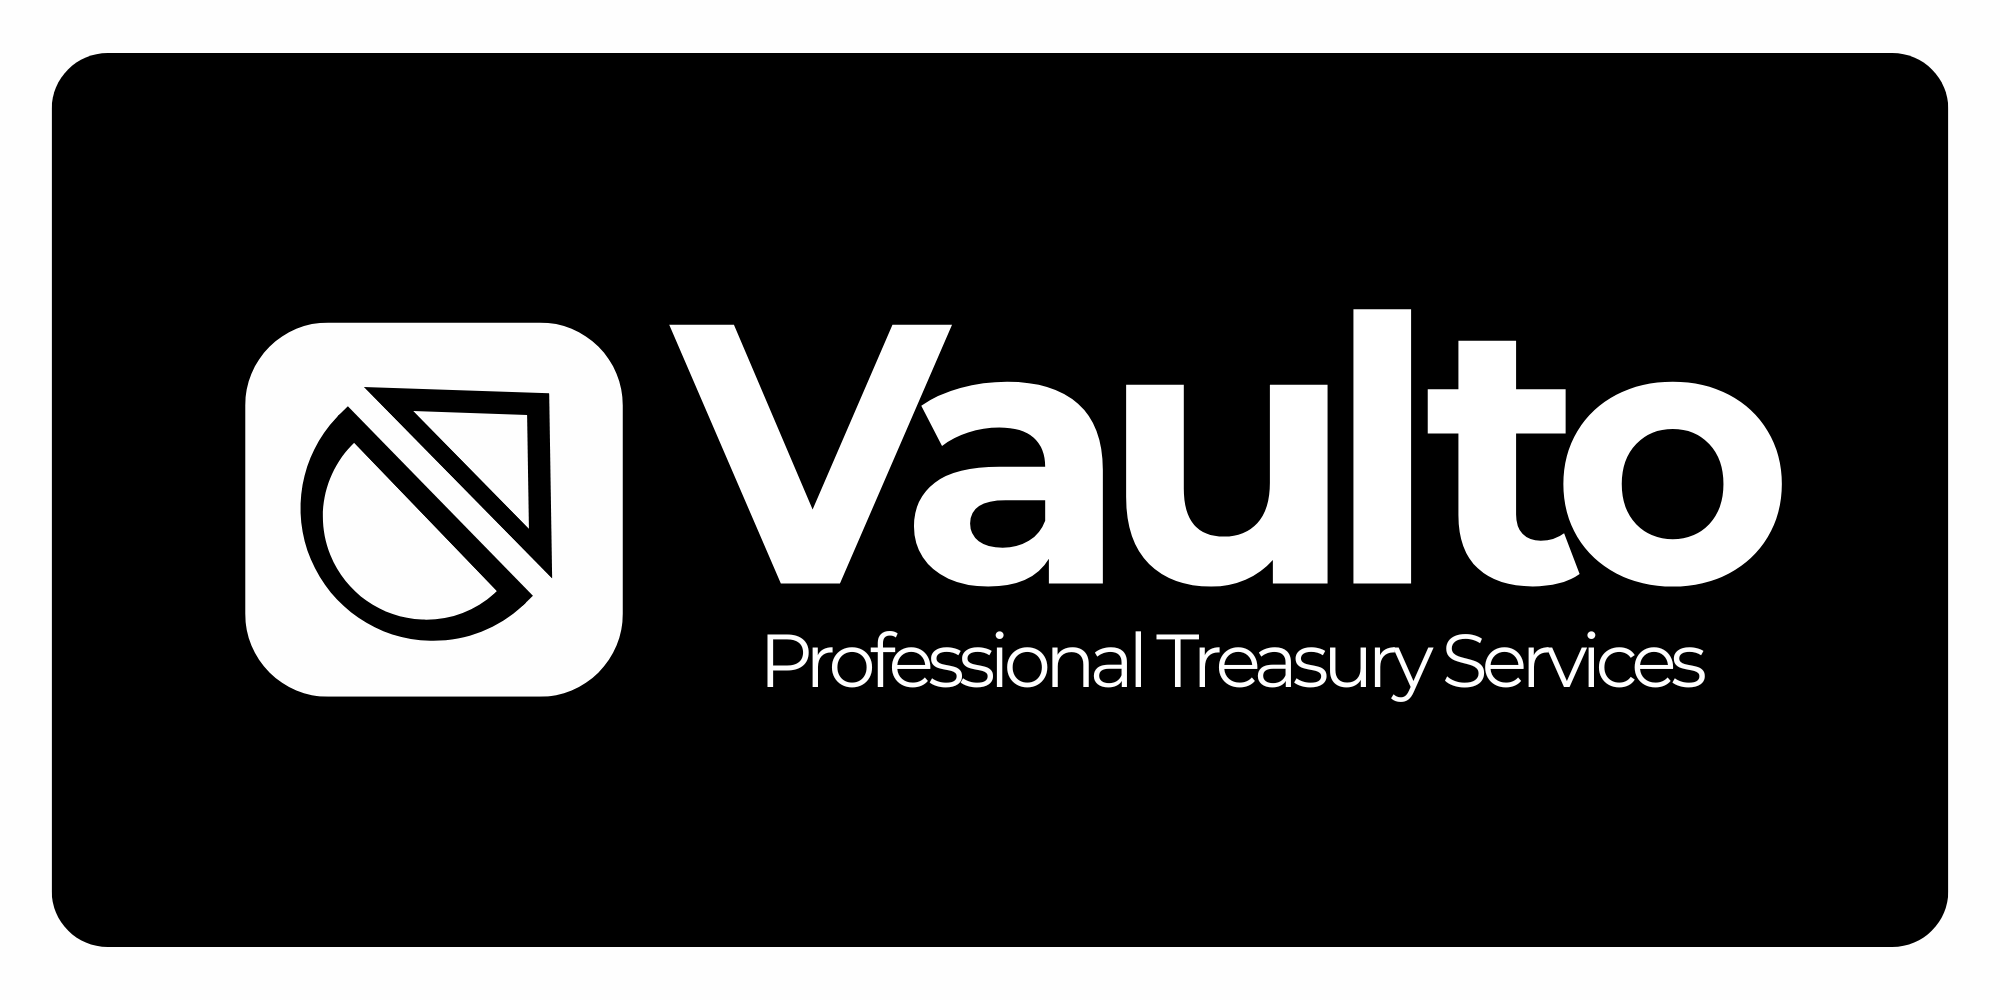
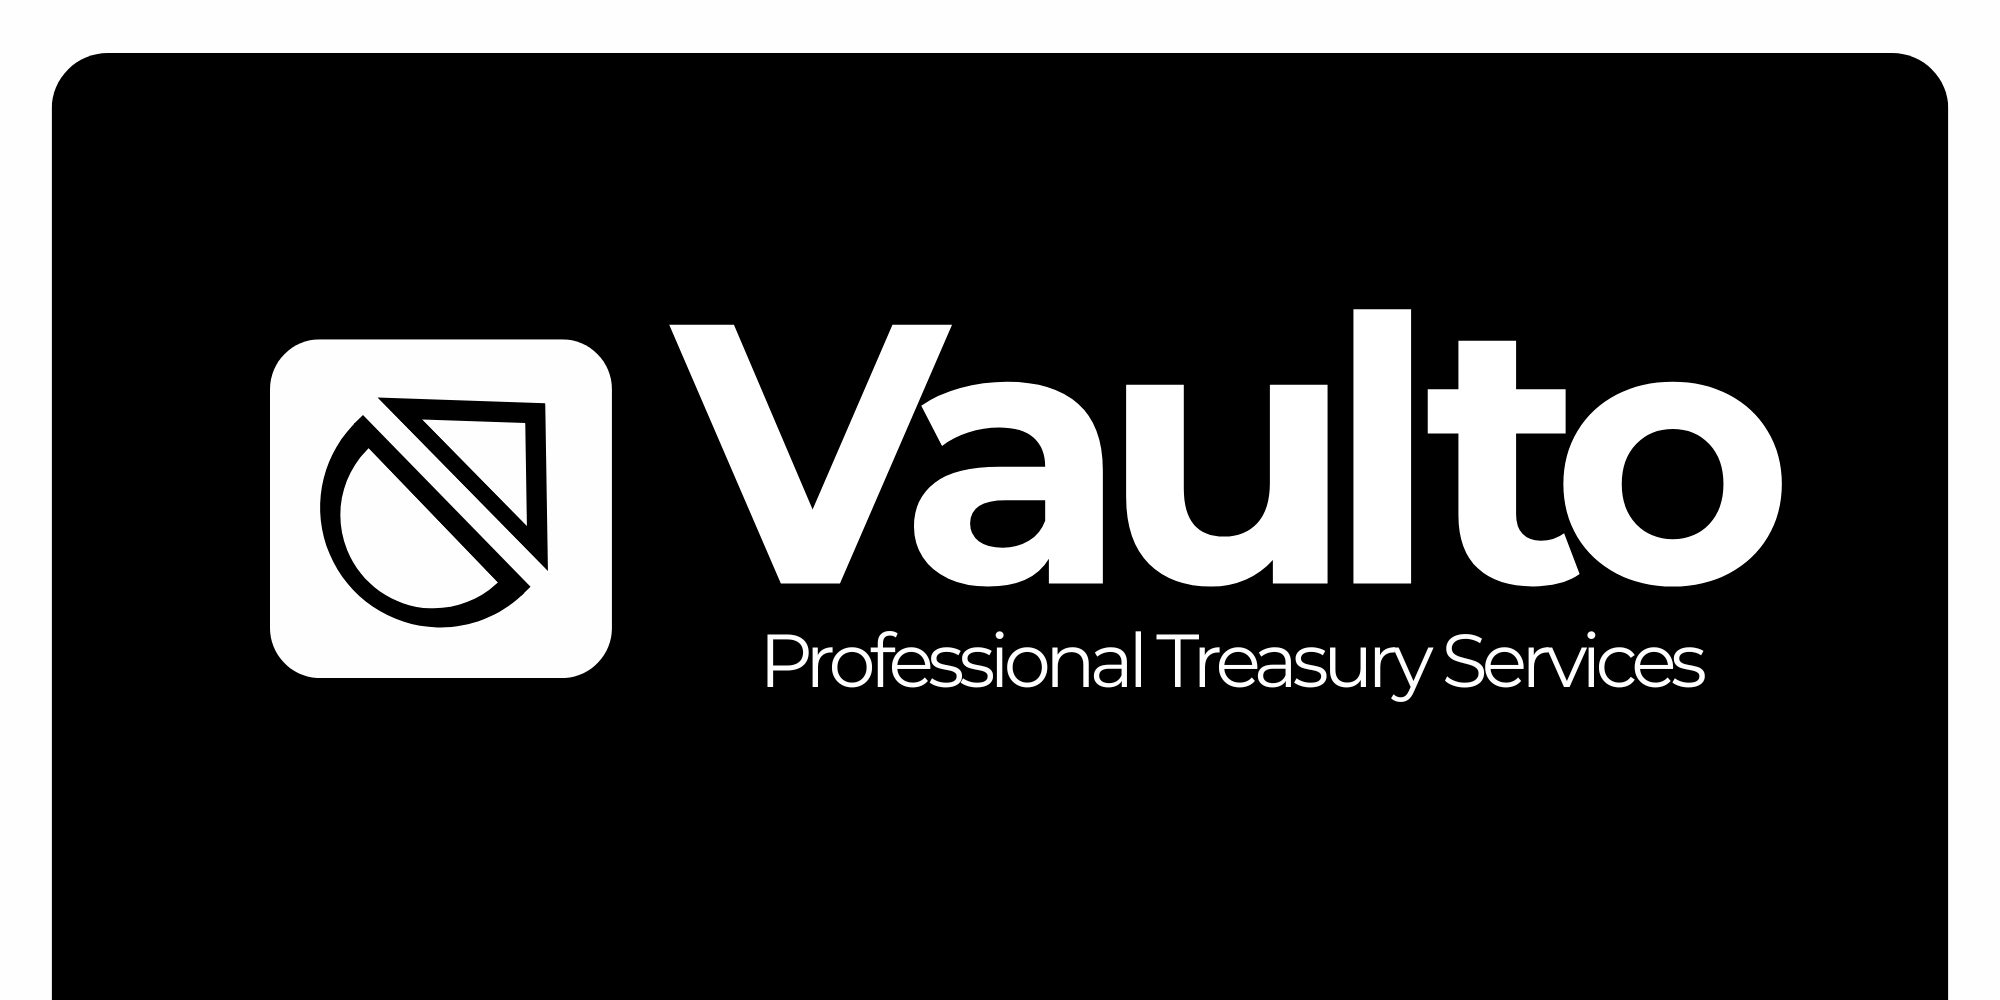
feat: rebrand to Vaulto Treasury and simplify UI
- Update branding from 'Holdings' to 'Treasury' across the application
- Simplify vault and ALP displays by removing logo images
- Replace logo images with clean text labels:
  * 'Hyperliquid Vault' instead of logo + 'Vault'
  * 'Aster Liquidity' instead of logo + 'Liquidity'
- Update page title and header text to reflect Treasury branding
- Optimize image assets (favicon, logo, social banner) for better performance
- Clean up CSS by removing unused logo-related styles and adjusting spacing
- Improve overall visual consistency and reduce visual clutter

Changed region(s): [[0.0, 0.899, 0.992, 1.0], [0.124, 0.31, 0.31, 0.713]]

diff --git a/src/components/ALPDisplay.css b/src/components/ALPDisplay.css
@@ -23,17 +23,12 @@
   align-items: center;
   gap: 0.75rem;
   margin-bottom: 0.5rem;
+  margin-top: 0.3rem;
   justify-content: flex-start;
 }
 
 .alp-header .alp-link {
   display: none;
-}
-
-.alp-logo {
-  width: 40px;
-  height: 40px;
-  object-fit: contain;
 }
 
 .alp-title {
@@ -42,9 +37,6 @@
   font-weight: 500;
   text-transform: uppercase;
   letter-spacing: 1px;
-  display: flex;
-  align-items: center;
-  gap: 0.75rem;
 }
 
 .alp-content {
@@ -52,7 +44,7 @@
   flex-direction: column;
   gap: 0.5rem;
   flex: 1;
-  margin-top: 0.5rem;
+  margin-top: 0.8125rem;
 }
 
 .alp-row {
@@ -157,17 +149,9 @@
     display: flex;
   }
   
-  .alp-logo {
-    width: 40px;
-    height: 40px;
-  }
-  
   .alp-title {
     font-size: 0.8rem;
     white-space: nowrap;
-    display: flex;
-    align-items: center;
-    gap: 0.5rem;
   }
   
   .alp-content {
@@ -241,18 +225,10 @@
   .alp-header .alp-link {
     display: flex;
   }
-
-  .alp-logo {
-    width: 36px;
-    height: 36px;
-  }
   
   .alp-title {
     font-size: 0.7rem;
     white-space: nowrap;
-    display: flex;
-    align-items: center;
-    gap: 0.5rem;
   }
   
   .alp-content {

diff --git a/src/components/Dashboard.css b/src/components/Dashboard.css
@@ -391,21 +391,12 @@
   justify-content: flex-start;
 }
 
-.vault-logo {
-  width: 56px;
-  height: 56px;
-  object-fit: contain;
-}
-
 .vault-label {
   font-size: 1.1rem;
   color: var(--text-secondary);
   font-weight: 500;
   text-transform: uppercase;
   letter-spacing: 1px;
-  display: flex;
-  align-items: center;
-  gap: 0.75rem;
 }
 
 .vault-address {
@@ -457,6 +448,8 @@
 
 .vault-link {
   margin-top: 0.75rem;
+  position: relative;
+  top: 0.625rem;
 }
 
 .vault-header-with-logo .vault-link-button {
@@ -774,17 +767,9 @@
     display: flex;
   }
 
-  .vault-logo {
-    width: 40px;
-    height: 40px;
-  }
-
   .vault-label {
     font-size: 0.8rem;
     text-align: left;
-    display: flex;
-    align-items: center;
-    gap: 0.5rem;
   }
   
   .vault-address {
@@ -982,17 +967,9 @@
     display: flex;
   }
 
-  .vault-logo {
-    width: 36px;
-    height: 36px;
-  }
-
   .vault-label {
     font-size: 0.7rem;
     text-align: left;
-    display: flex;
-    align-items: center;
-    gap: 0.5rem;
   }
   
   .vault-address {

diff --git a/src/components/Dashboard.tsx b/src/components/Dashboard.tsx
@@ -416,8 +416,7 @@ const Dashboard: React.FC = () => {
                 <div className="vault-info">
                   <div className="vault-header-with-logo">
                     <div className="vault-label">
-                      <img src="/hyper.png" alt="Hyperliquid" className="vault-logo" />
-                      Vault
+                      Hyperliquid Vault
                     </div>
                     <a 
                       href="https://app.hyperliquid.xyz/vaults/0xba9e8b2d5941a196288c6e22d1fab9aef6e0497a" 
@@ -560,8 +559,7 @@ const Dashboard: React.FC = () => {
             <div className="vault-info">
               <div className="vault-header-with-logo">
                 <div className="vault-label">
-                  <img src="/hyper.png" alt="Hyperliquid" className="vault-logo" />
-                  Vault
+                  Hyperliquid Vault
                 </div>
                 <a 
                   href="https://app.hyperliquid.xyz/vaults/0xba9e8b2d5941a196288c6e22d1fab9aef6e0497a" 

diff --git a/public/index.html b/public/index.html
@@ -10,7 +10,7 @@
     <meta name="theme-color" content="#000000" />
     
     <!-- Primary Meta Tags -->
-    <title>Vaulto Holdings</title>
+    <title>Vaulto Treasury</title>
     <meta name="title" content="Vaulto Holdings" />
     <meta name="description" content="Professional Ethereum treasury service with institutional-grade risk management and real-time market data." />
     <meta name="keywords" content="Ethereum, Treasury, DeFi, Crypto, Investment, Risk Management, ETH, Vaulto" />

diff --git a/src/components/ALPDisplay.tsx b/src/components/ALPDisplay.tsx
@@ -16,8 +16,7 @@ const ALPDisplay: React.FC<ALPDisplayProps> = ({
     <div className="alp-display">
       <div className="alp-header">
         <div className="alp-title">
-          <img src="/aster.png" alt="Aster" className="alp-logo" />
-          Liquidity
+          Aster Liquidity
         </div>
         <a 
           href={alpTokenUrl}

diff --git a/src/components/Header.tsx b/src/components/Header.tsx
@@ -14,7 +14,7 @@ const Header: React.FC<HeaderProps> = () => {
         <div className="header-content">
           <Link to="/" className="logo">
             <img src="/vlt-logo.png" alt="Vaulto Logo" className="logo-image" />
-            <h1>Holdings</h1>
+            <h1>Treasury</h1>
           </Link>
           
 
